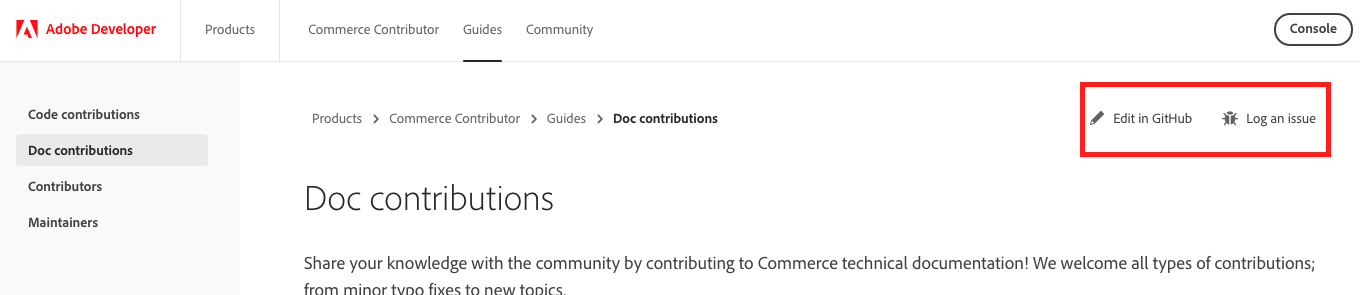
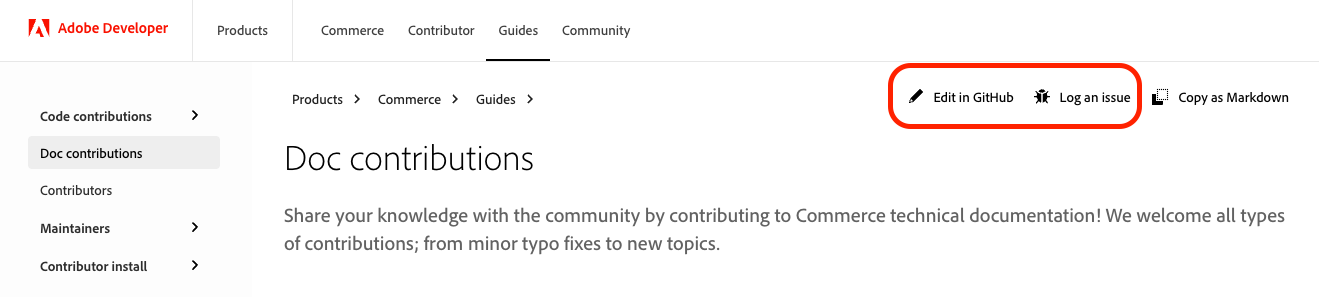
refactor: update contributor documentation and remove outdated images

diff --git a/src/pages/guides/doc-contributions/index.md b/src/pages/guides/doc-contributions/index.md
@@ -1,9 +1,9 @@
 ---
 title: Doc Contributions | Commerce Contributor
-description: Learn the difference between code contributions and doc contributions.
+description: Learn the difference between code contributions and documentation contributions.
 ---
 
-# Doc contributions
+# Documentation contributions
 
 Share your knowledge with the community by contributing to Commerce technical documentation! We welcome all types of contributions; from minor typo fixes to new topics.
 
@@ -11,11 +11,9 @@ You can contribute by creating an issue or pull request (PR) in one of our GitHu
 
 ![Edit or report an issue on GitHub](../../_images/edit-report.png)
 
-Adobe staff members and [community maintainers](../maintainers/index.md) review issues and pull requests on a regular basis. We do our best to address all issues as soon as possible, but working through the backlog takes time. We appreciate your patience.
-
 ## Contributor attribution
 
-If you write and contribute a new topic, we add your name (or your company's name) at the top of the page and link it to your GitHub profile (or company website)! For example:
+If you write and contribute a new topic, we add your name (or your company's name) at the end of the page and link it to your GitHub profile (or company website)! For example:
 
 ![Contributor attribution](../../_images/contributor-attribution-example.png)
 
@@ -54,7 +52,7 @@ New issues and PRs automatically appear in the following GitHub project boards:
 
 1. Create a pull request to the target AdobeDocs repository.
 
-   In general, you should use `main` as the base branch when creating a PR. If your contribution is related to a release that is in progress, use a version-specific integration branch, such as `develop`.
+   In general, you should use `main` as the base branch when creating a PR. If your contribution is related to a release that is in progress, use a version-specific integration branch, such as `2.x-develop`.
 
 1. Complete the pull request template.
 
@@ -81,8 +79,7 @@ The following guidelines may answer most of your questions and help you get star
 -  Review your work for basic typos, formatting errors, or ambiguous sentences before opening a pull request.
 -  Revise pull requests according to review feedback. We will close pull requests that require an inordinate amount of time to review and process (especially for minor changes) if you fail to make revisions according to review feedback.
 -  Do not directly contact Adobe team members or maintainers on Slack to review your pull request unless it has been open for more than five days. We have a process and queue for pull requests that everyone must follow.
--  Get recognized on the Adobe web site for writing new topics! Add your name and a link to your company website or GitHub profile to the file metadata so that we can display it on the page. See [Edit metadata](#edit-metadata).
--  We no longer recognize individual community members who contribute features to the Magento 2 codebase in the corresponding feature topic(s) in the documentation. Adobe recognizes these contributions in more appropriate channels (for example, the [Magento DevBlog](https://community.magento.com/t5/Magento-DevBlog/bg-p/devblog)).
+-  We no longer recognize individual community members who contribute features to the Magento 2 codebase in the corresponding feature topic(s) in the documentation.
 
 ## Tips for writing content
 
@@ -99,7 +96,7 @@ Use the following guidelines to help you with the writing process:
 
 ### Review changes locally
 
-_(Optional)_ To review your changes in HTML output, follow the instructions in the repo's README to build the site locally using Gatsby.
+_(Optional)_ To review your changes in HTML output, follow the instructions in the repo's README to build the site locally.
 
 ### Edit metadata
 
@@ -109,8 +106,6 @@ The Markdown (.md) file's metadata is a set of YAML key-value pairs. The metadat
 ---
 title:
 description:
-contributor_name:
-contributor_link:
 ---
 ```
 
@@ -118,10 +113,8 @@ contributor_link:
 
 | Property  | Description | Required? |
 | ------------- | ---------- | ---------- |
-| `title`       | Sets the title of the page in the HTML metadata and the main title on the page. Max character limit is 60. | Yes |
+| `title`       | Sets the title of the page in the HTML metadata. Max character limit is 60. | Yes |
 | `description` | Sets the description of the page in the HTML metadata. Max character limit is 160. | Yes |
-| `contributor_name` | Sets the name of the contributor who wrote the topic and displays it on the page. | No |
-| `contributor_link` | Creates a link to the contributor's GitHub profile or company website. | No |
 
 ## Report an issue
 

diff --git a/src/pages/guides/contributors/index.md b/src/pages/guides/contributors/index.md
@@ -6,7 +6,3 @@ description: Explore contributor statistics with the Bitergia analytics dashboar
 # Contributors
 
 Many thanks to our community members, partners, and Magento Open Source fans who contribute to our open source projects.
-
-Check out the [Top Contributors Leaderboard](https://magento.biterg.io/app/dashboards#/view/41dc0c60-fa06-11eb-bbaa-dd6ca6f8fda8).
-
-![Contributor statistics dashboard](../../_images/bitegria.png)
